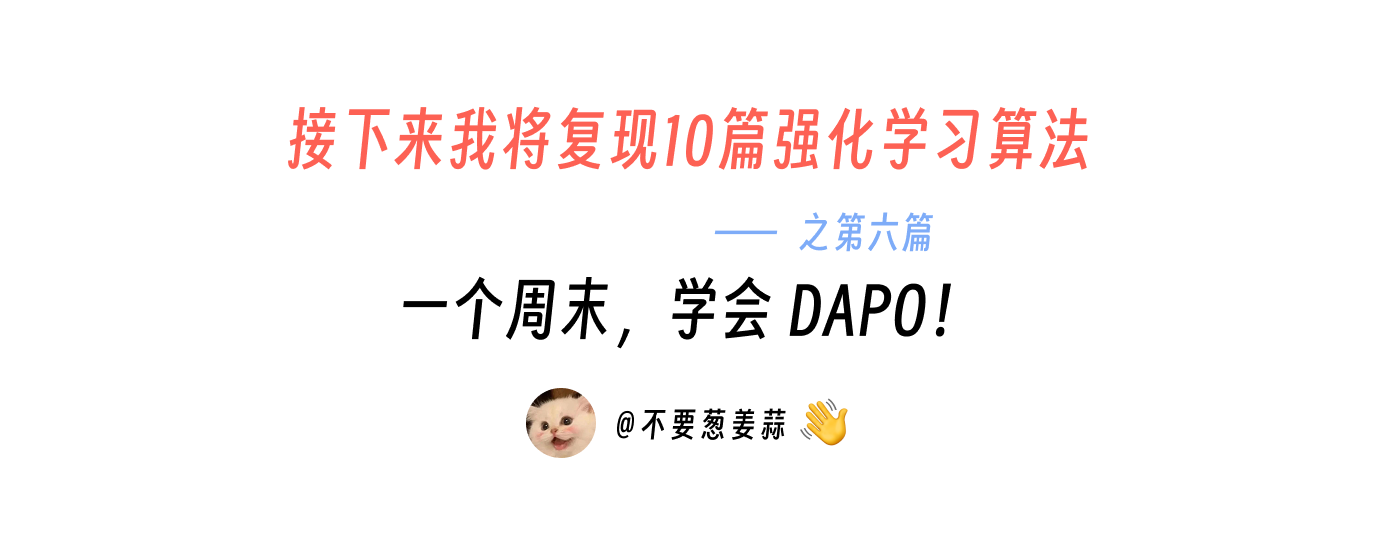
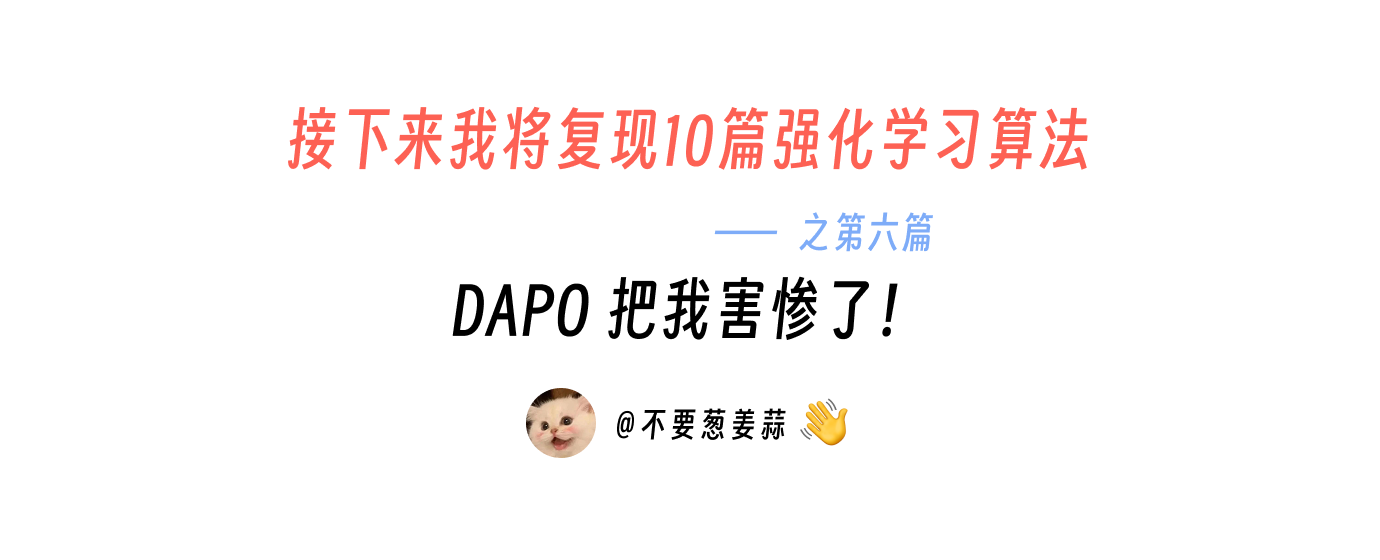
docs(06-dapo): polish article and update index

Changed region(s): [[0.2804, 0.4857, 0.6855, 0.6071]]

diff --git a/06-dapo/readme.md b/06-dapo/readme.md
@@ -41,7 +41,7 @@
 
 ![](./images/dapo-paper.png)
 
-## 先把这次复现的结论放在前面
+## 结论放在前面
 
 仓库里同时提供了 DAPO 和 GRPO 两个算法入口，大家可以对照代码理解两个算法开关，再来运行。本文不展示训练曲线，也不据此比较两个算法的优劣。
 
@@ -446,7 +446,11 @@ rollout 会反复补采、反复等待，
 最终把动态筛选的成本完整付在 wall-clock 上。
 ```
 
+## 感受
+
 > ***所有命运馈赠的礼物，早已在暗中标好了价格***
+
+在全手搓实现 DAPO 的时候，我有很大的感触。之前在用 transformers 或者是 verl 训练模型的时候，假如说这次训练得很慢，我只会怀疑是不是我的卡不够好，或者说是我的 verl 哪里配置得不对，我绝对不会怀疑是算法的原因，因为 transformers 的 trainer 和 verl 的配置对我来说它是一个黑盒。但是这一次 dapo 的全部代码是我一行一行 review 过的，所以我很清楚 dapo 发生了什么事情，我也很清楚 dapo 为什么会这么慢。所以，这就是用 PyTrio 的魅力吧，因为我可以从0~1地完成核心算法代码，不必去关注框架、配置、什么训推一体呀，我不需要考虑这些事情，我只需要考虑核心算法到底有没有正确的实现。
 
 ## 参考资料
 

diff --git a/README.md b/README.md
@@ -43,6 +43,7 @@
 | [第 3 篇](./03-search-r1/readme.md) | Search-R1 | 用 Qwen3.5-4B、PyTRIO 和知乎搜索 API 复现多轮搜索 RL |
 | [第 4 篇](./04-opsd/readme.md) | OPSD | 用固定的 step-0 Teacher 蒸馏 Student 自采样轨迹 |
 | [第 5 篇](./05-retool/readme.md) | ReTool | 用 Qwen3.5-4B、PyTRIO 和本地代码沙箱复现代码交织的 Agentic RL |
+| [第 6 篇](./06-dapo/readme.md) | DAPO | 拆解四项核心改进，并记录 Dynamic Sampling 在真实训练中的时间成本 |
 
 ## 快速启动
 
